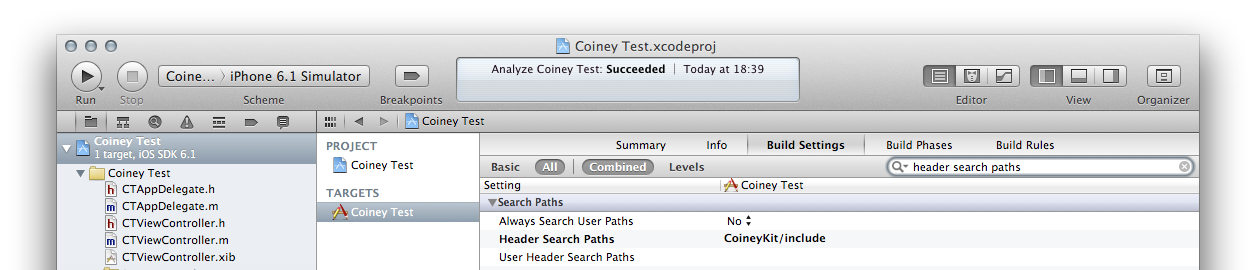
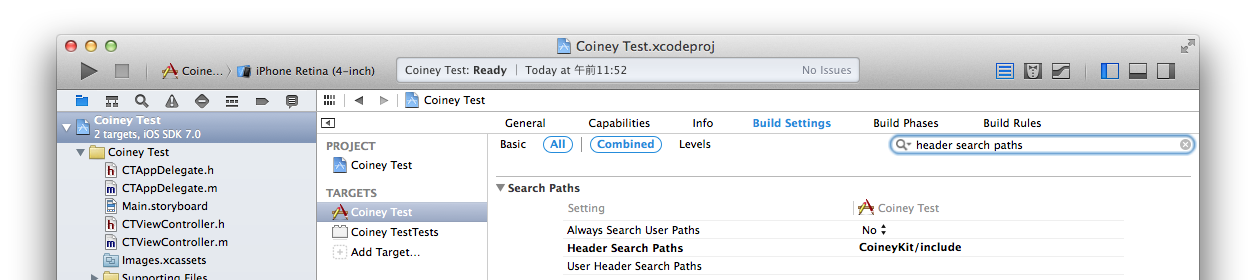
Updated readme images with Xcode 5 / iOS 7, added section about looking up transactions

diff --git a/README.md b/README.md
@@ -7,7 +7,7 @@ If you follow along this tutorial, you will learn how to create a basic applicat
 ## What you need
 
  * CoineyKit
- * Xcode 4 or above (Installed in `/Applications`)
+ * Xcode 5 or above (Installed in `/Applications`)
  
 
 ## Setting up your project
@@ -111,7 +111,7 @@ If you now hook up `productNameField` & `productPriceField` to text fields in CT
 
 To know the status of the transaction you simply make yourself the delegate of your Coiney controller, and it will notify you of its progress.
 
-`CTViewController.m`
+`CTViewController.m`:
 
     #import "CTViewController.h"
     #import <CoineyKit/CoineyKit.h>
@@ -148,6 +148,49 @@ To know the status of the transaction you simply make yourself the delegate of y
         NSLog(@"Cancelled payment.");                                            // ←
     }
 
+## Look up a transaction
+
+You can use a transaction's unique identifier to query Coiney for the corresponding CYTransaction object.
+
+`CTViewController.m`:
+
+    #import "CTViewController.h"
+    #import <CoineyKit/CoineyKit.h>
+    
+    @interface CTViewController () <CYCoineyViewControllerDelegate>
+    @end
+    
+    @implementation CTViewController
+    
+    - (IBAction)makePayment:(id)aSender
+    {
+        // Create a line item to pre-populate the Coiney controller with.
+        NSString *name = _productNameField.text;
+        int price = [_productPriceField.text intValue];
+        
+        CYLineItem *lineItem = [CYLineItem itemWithAmount:price
+                                                 currency:CYCurrencyJPY name:name];
+        
+        // Create an instance of the Coiney payment controller.
+        CYCoineyViewController * coineyController = [[CYCoineyViewController alloc] initWithLineItems:@[lineItem]];
+        coineyController.delegate = self;
+        // Present it on top of the current controller.
+        [self presentViewController:coineyController animated:YES completion:nil];
+    }
+    
+    - (void)coineyViewController:(CYCoineyViewController *)aController
+          didCompleteTransaction:(CYTransaction *)aTransaction
+    {
+        NSLog(@"Completed transaction!: %@", aTransaction);
+        
+        CYTransactionLookupBlock completionBlock = ^(id<CYTransaction> t, NSError *err) {
+        	if(t)
+        		NSLog(@"Transaction found: %@", t);
+        	else
+        		NSLog(@"Transaction not found: %@", err);
+        };
+        CYLookUpTransaction(aTransaction.identifier, completionBlock);
+    }
 
 ## And that's it!
 
